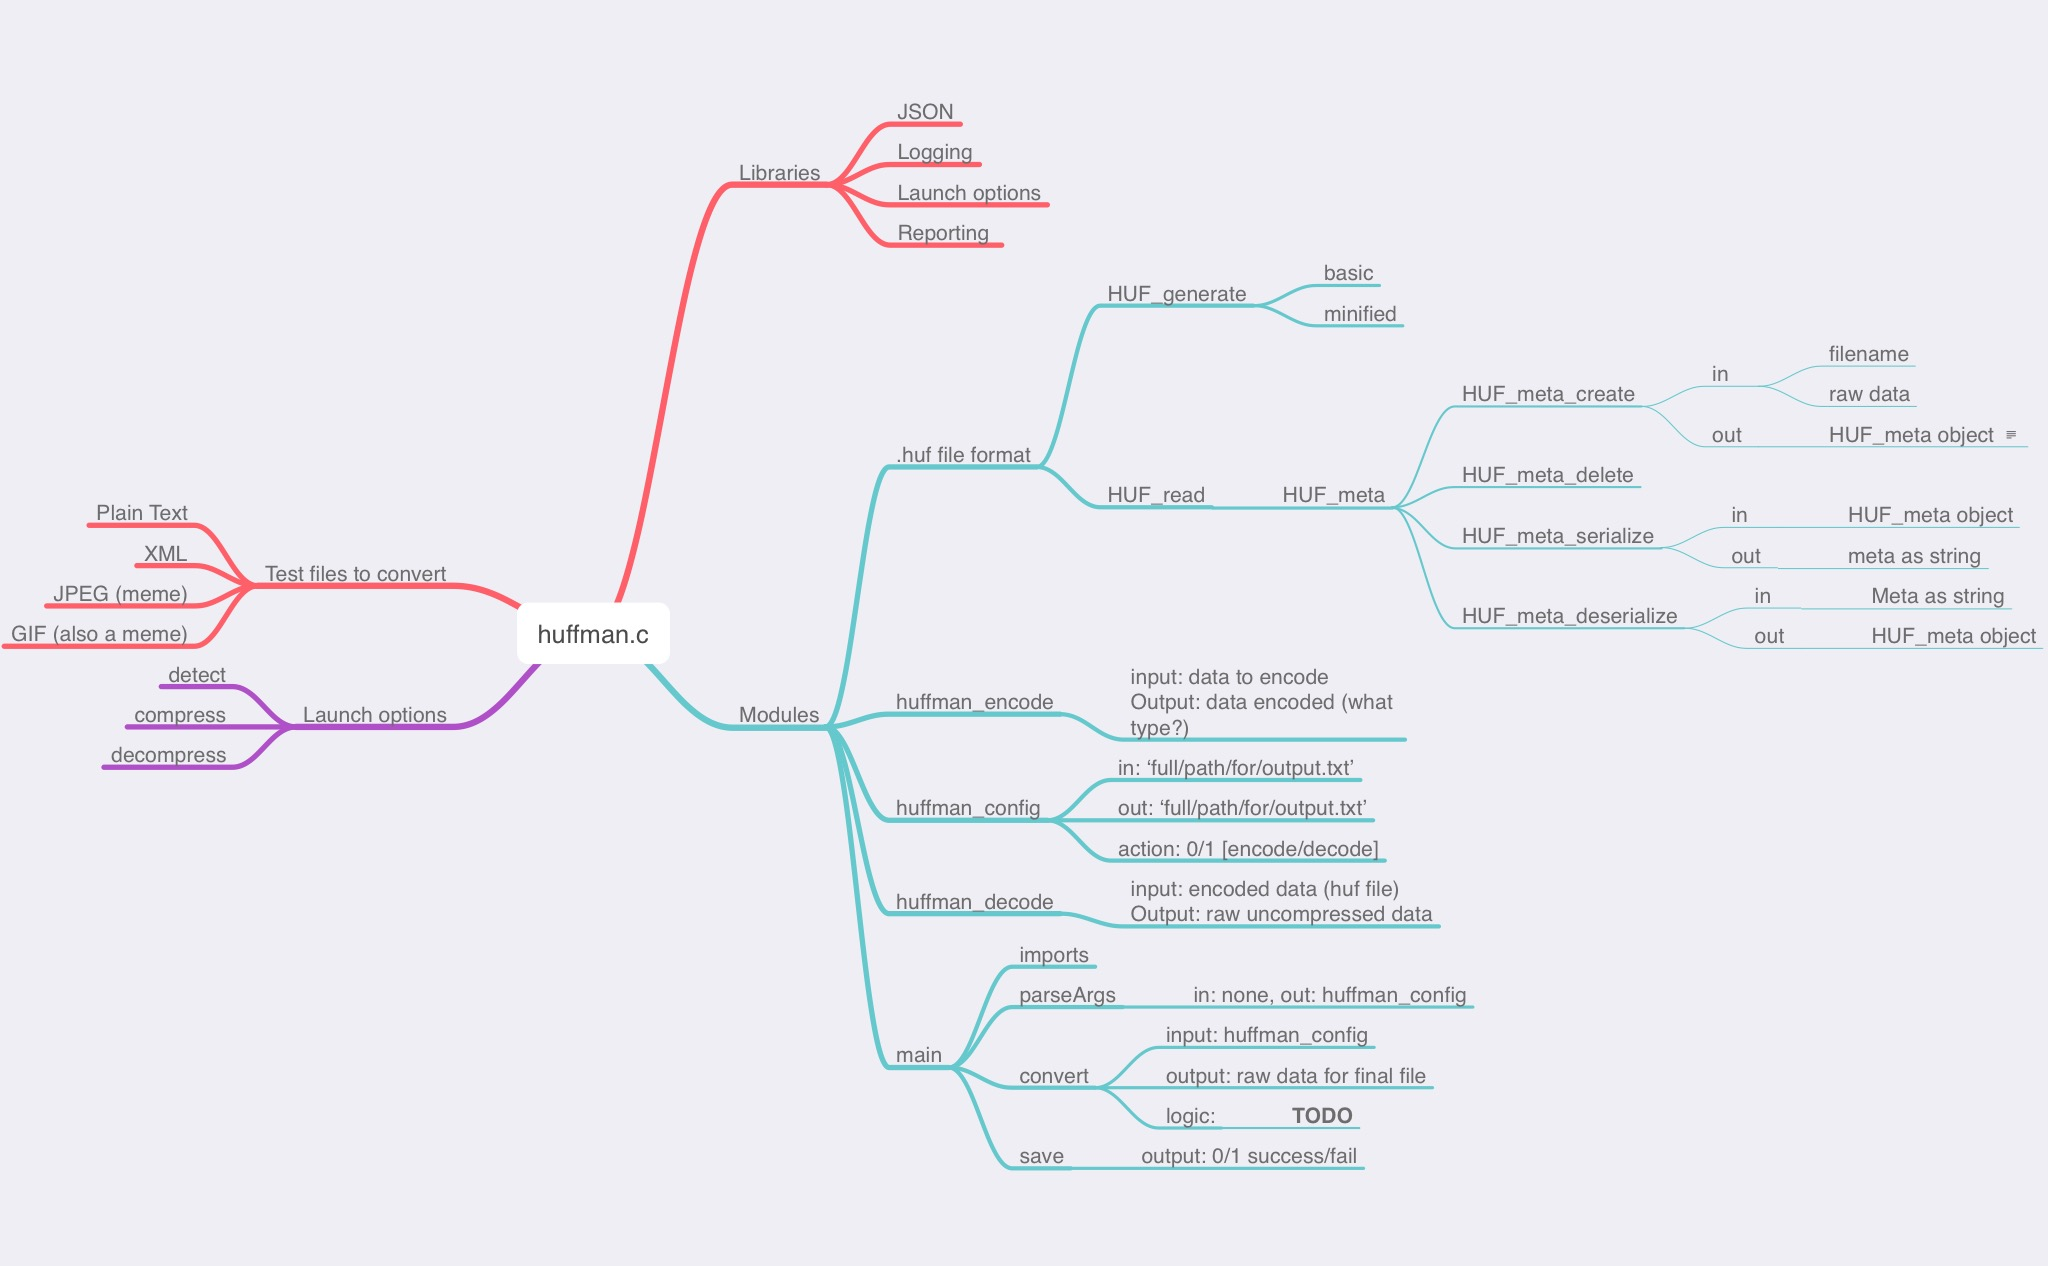
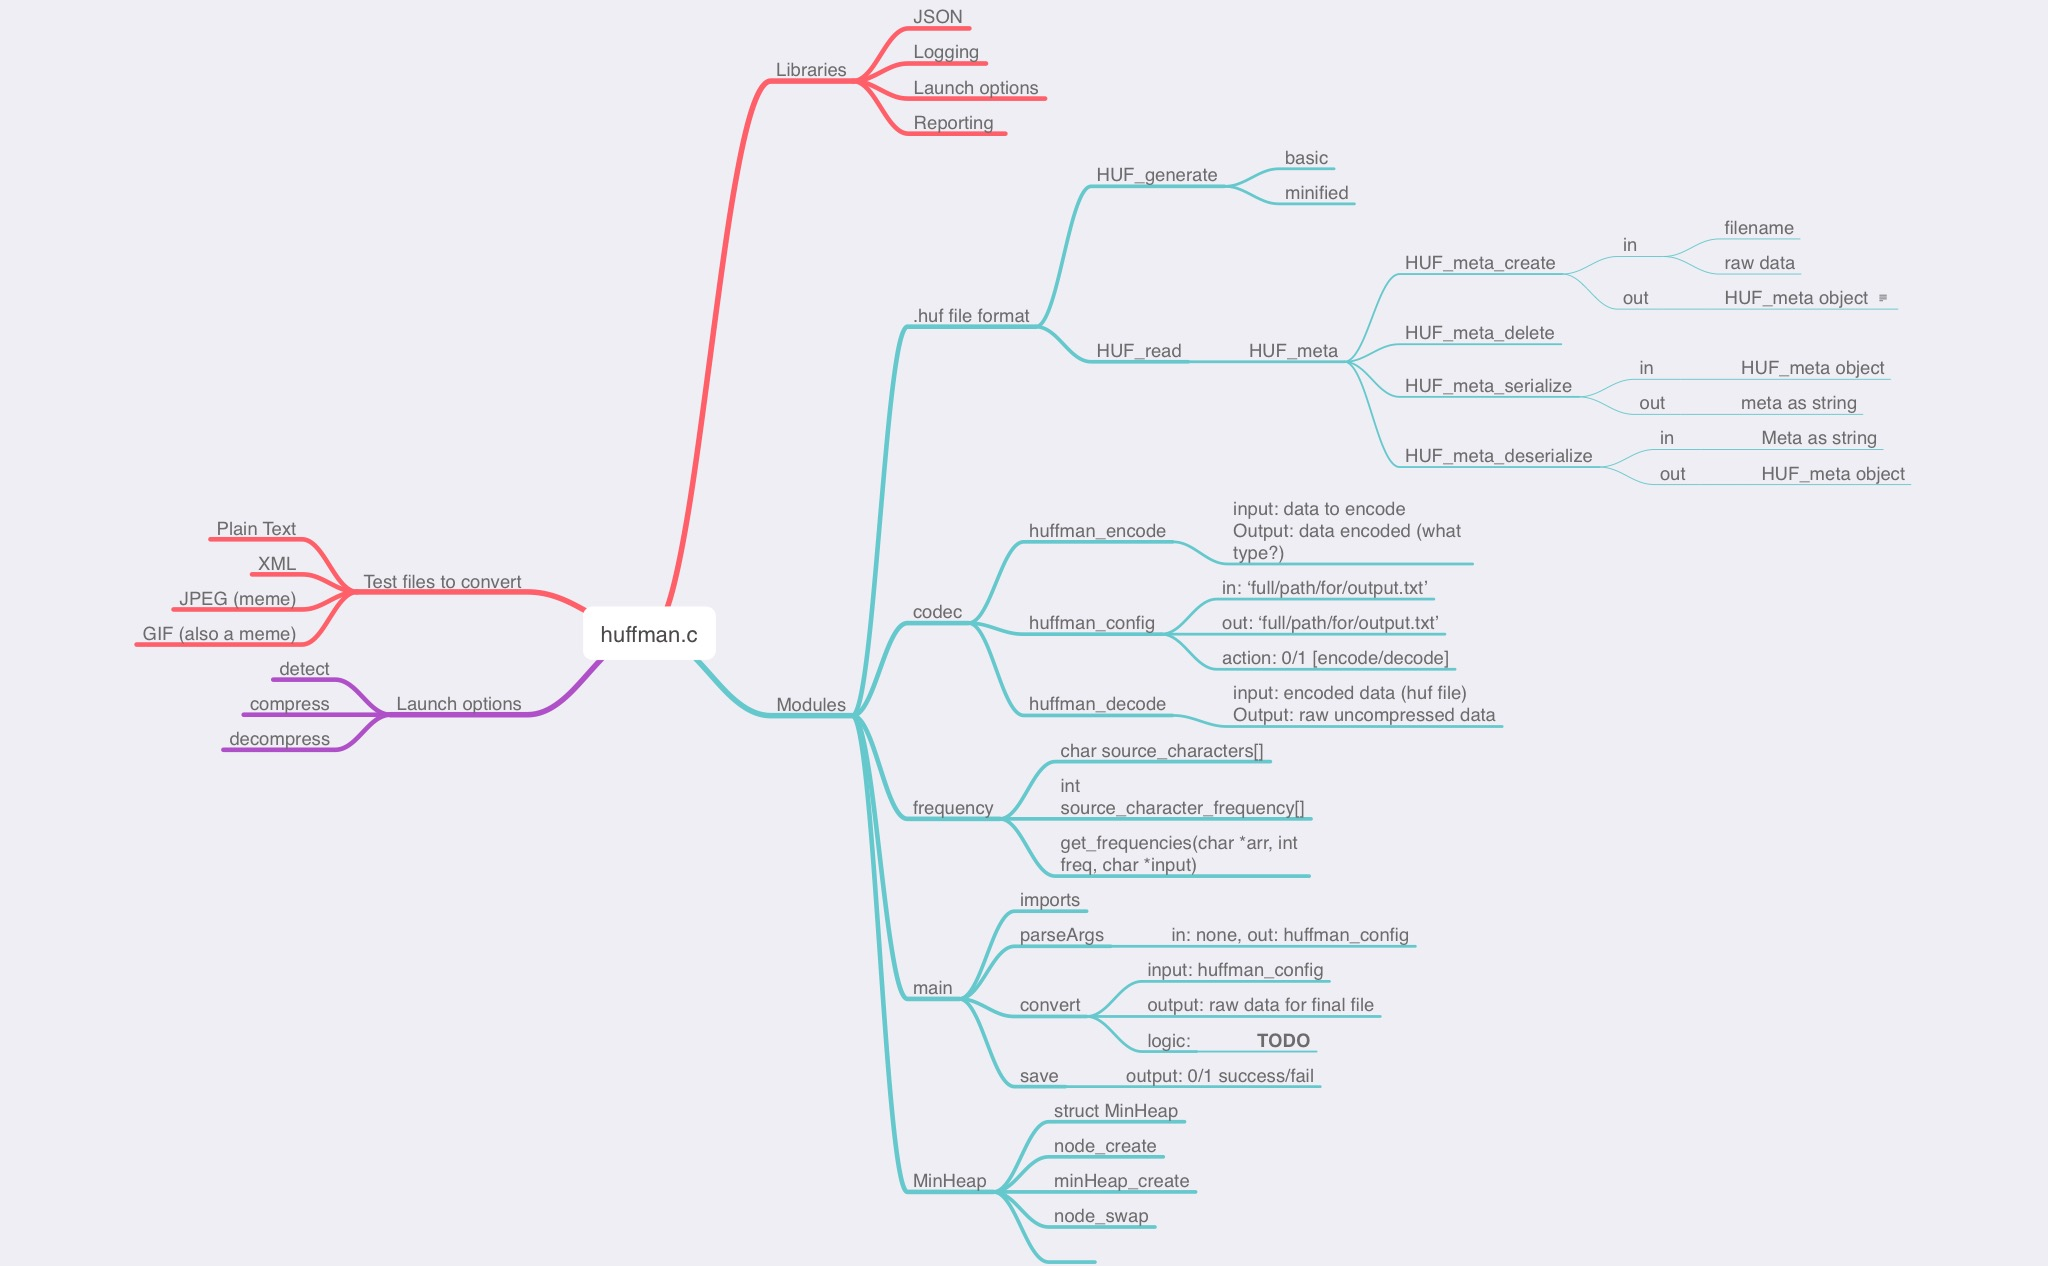
updated readme with mean heap

diff --git a/README.md b/README.md
@@ -15,13 +15,17 @@ uses a unique file extension: `.huff` for compressed files
       "extension": "txt",
       "size": "12804"
     },
+    "table": {
+      characters: []
+      frequencies: []
+    },
     "data": "<ENCODED DATA>"
   }
 ```
 
 ## Instructions
 
-### Compilation
+### Building from Source
 
 * TODO: ceedling
 
@@ -38,7 +42,7 @@ uses a unique file extension: `.huff` for compressed files
 
 ## Reference
 
-<iframe width="1120" height="620" src="https://www.youtube.com/embed/0kNXhFIEd_w" frameborder="0" allow="autoplay; encrypted-media" allowfullscreen></iframe>
+[![Huffman Coding by Geeks for Geeks](https://img.youtube.com/vi/0kNXhFIEd_w/0.jpg)](https://www.youtube.com/watch?v=0kNXhFIEd_w)
 
 [Youtube - Huffman Coding by Geeks for Geeks](https://www.youtube.com/watch?v=0kNXhFIEd_w)
 
@@ -47,26 +51,58 @@ uses a unique file extension: `.huff` for compressed files
 ## Structure
 
 * Makefile
+
 - [huffman.c](#huffmanc)
   - [The `.huff` File Format](#the-huff-file-format)
   - [Instructions](#instructions)
-    - [Compilation](#compilation)
+    - [Building from Source](#building-from-source)
     - [Usage](#usage)
   - [Tests](#tests)
   - [Reference](#reference)
   - [Structure](#structure)
   - [Plans](#plans)
+  - [MinHeap module](#minheap-module)
+    - [Binary Heaps in General](#binary-heaps-in-general)
+    - [Min Heaps](#min-heaps)
   - [3rd Party Libraries, Licensing, Credits etc.](#3rd-party-libraries-licensing-credits-etc)
+    - [Tools](#tools)
+    - [Libraries](#libraries)
 
 ## Plans
 
-* [UML diagrams etc]()
-* [Tests to Write]()
+TODO: Mindnode export
+
+## MinHeap module
+
+### Binary Heaps in General
+
+* [Introduction to Binary Heaps (MaxHeaps) - YouTube](https://www.youtube.com/watch?v=WCm3TqScBM8)
+  * [![Intoduction to Binary Heaps](https://img.youtube.com/vi/WCm3TqScBM8/0.jpg)](https://www.youtube.com/watch?v=WCm3TqScBM8)
+* [Data Structures: Heaps - YouTube](https://www.youtube.com/watch?v=t0Cq6tVNRBA)
+
+  * [![Title](https://img.youtube.com/vi/t0Cq6tVNRBA/0.jpg)](https://www.youtube.com/watch?v=t0Cq6tVNRBA)
+
+* [Binary heap - Wikipedia](https://en.wikipedia.org/wiki/Binary_heap)
+
+### Min Heaps
+
+* [Min Heap Intro PDF](https://www.cs.cmu.edu/~tcortina/15-121sp10/Unit06B.pdf)
+* [Heap | How to create a Min Heap - step by step guide - YouTube](https://www.youtube.com/watch?v=oAYtNV6vy-k&t=71s)
 
 ## 3rd Party Libraries, Licensing, Credits etc.
 
-The following 3rd party libraries were used:
+The following 3rd party libraries and technologies were used:
 
-* CEEDLING -
-* JSON - [Jansson](http://www.digip.org/jansson/)
+### Tools
+
+* CEEDLING - Build system and toolchain for C [Ceedling - Throw the Switch](http://www.throwtheswitch.org/ceedling), which includes:
+
+  * [Unity - Curiously Powerful Unit Testing in C for C](https://github.com/ThrowTheSwitch/Unity/)
+  * [CMock - Automagical generation of stubs and mocks for Unity Tests](https://github.com/ThrowTheSwitch/cmock)
+  * [CException - Lightweight exception handling for C](https://github.com/ThrowTheSwitch/CException)
+
+### Libraries
+
+* JSON: [Jansson](http://www.digip.org/jansson/)\*
+* Logging: TODO: find logging
 *
